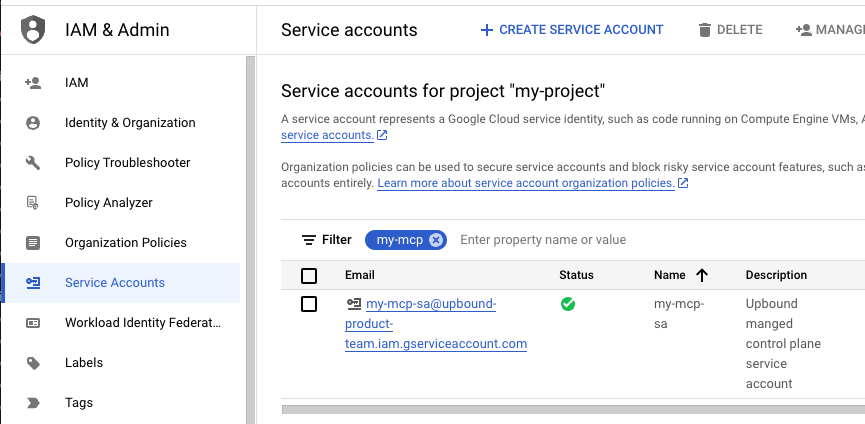
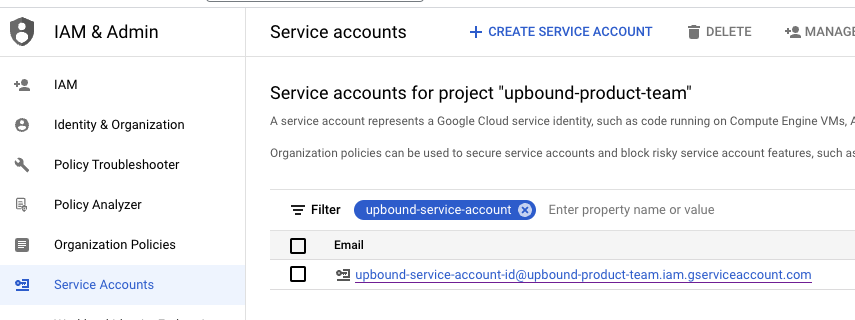
Vale fixes

diff --git a/content/quickstart/gcp-deploy.md b/content/quickstart/gcp-deploy.md
@@ -17,7 +17,9 @@ If you don't have an Upbound account, [sign up for a free trial](https://account
 
 ## Get started
 
-The first time you sign in to Upbound, you are through a `Get Started` experience designed to bootstrap your environment in the matter of minutes. Go to [Upbound](https://console.upbound.io) to start the experience.
+The first time you sign in to Upbound, you walk through a Getting Started experience designed to bootstrap your environment in the matter of minutes. 
+
+Go to [Upbound](https://console.upbound.io) to get started.
 
 ### Create an organization
 
@@ -78,6 +80,12 @@ While Upbound creates your control plane, connect Upbound to GCP.
 
 Upbound recommends using OpenID Connect (OIDC) to authenticate to GCP without exchanging any private information. 
 
+{{< hint "warning" >}}
+GCP doesn't authenticate a second OIDC pool in the same projected connecting to Upbound.
+
+Add a new [Service Account]({{<ref "#create-a-gcp-service-account" >}}) to the existing pool instead.
+{{< /hint >}}
+
 #### Create an identity pool
 1. Open the **[GCP IAM Admin console](https://console.cloud.google.com/iam-admin/iam)**.
 2. Select **[Workload Identity Federation](https://console.cloud.google.com/iam-admin/workload-identity-pools)**.
@@ -105,6 +113,10 @@ Select **Continue**.
 {{<img src="quickstart/images/gcp-provider-to-pool.png" alt="GCP add a provider to pool configuration" quality="100" align="center" >}}
 
 #### Configure provider attributes
+The provider attributes restrict which remote entities you allow access to your resources. 
+When Upbound authenticates to GCP it provides an OIDC subject (`sub`) in the form:
+
+`mcp:<account>/<mcp-name>:provider:<provider-name>`
 
 Configure the _google.subject_ attribute as **assertion.sub**
 
@@ -112,14 +124,18 @@ Under _Attribute Conditions_ select **Add Condition**.
 
 <!-- vale gitlab.Uppercase = NO -->
 <!-- ignore CEL -->
-In the _Conditional CEL_ input box put
+To authenticate any managed control plane in your organization, in the _Conditional CEL_ input box put
 <!-- vale gitlab.Uppercase = YES -->
 
 {{<editCode >}}
 ```console
-google.subject == "mcp:$@UPBOUND_ORG_NAME/CONTROL_PLANE_NAME$@:provider:provider-gcp"
+google.subject.contains("mcp:$@ORGANIZATION_NAME$@")
 ```
 {{< /editCode >}}
+
+{{< hint "warning" >}}
+Not providing a CEL condition allows any Upbound managed control plane to access your GCP account if they know the project ID and service account name.
+{{< /hint >}}
 
 Select **Save**.
 
@@ -156,12 +172,13 @@ For the _CloudSQL as a service_ configuration the service account requires the r
 Select **Done**.
 
 {{<img src="quickstart/images/gcp-role-add.png" alt="GCP service project access screen" quality="100" align="center">}}
-<!-- 
-#### Record the service account email address
 
-At the list of service accounts copy the service account **email**. Upbound requires this to authenticate your managed control plane.
+##### Record the service account email address
 
-{{<img src="quickstart/images/gcp-sa-email.png" alt="list of GCP service accounts" size="medium" quality="100" >}} -->
+At the list of service accounts copy the service account **email**.  
+Upbound requires this to authenticate your managed control plane.
+
+{{<img src="quickstart/images/gcp-sa-email.png" alt="list of GCP service accounts" size="medium" quality="100" >}} 
 
 ### Add the service account to the identity pool
 
@@ -173,6 +190,25 @@ Add the service account to the Workload Identity Federation pool to authenticate
 {{<img src="quickstart/images/gcp-add-to-pool.png" alt="Pool select service account screen" quality="100" align="center">}}
 Select **Save**.  
 In the _Configure your application_ window, select **Dismiss**.
+
+<!-- vale Microsoft.Terms = NO -->
+<!-- vale Google.Headings = NO -->
+<!-- allow "Cloud". It matches the label on the page --> 
+
+<!-- vale Microsoft.HeadingAcronyms = NO -->
+<!-- allow "SQL" -->
+### Enable the Cloud SQL Admin GCP API
+GCP requires explicitly enabling the Cloud SQL Admin API. 
+
+
+Go to the [Cloud SQL Admin API](https://console.cloud.google.com/apis/library/sqladmin.googleapis.com) page in the GCP console.
+
+
+Select **Enable**.
+
+{{<img src="quickstart/images/enable-cloud-sql-api.png" alt="Enable the Cloud SQL Admin API in the GCP console" size="medium" quality="100" >}}
+<!-- vale Google.Headings = YES -->
+<!-- vale Microsoft.Terms = YES -->
 
 ### Finish configuring the Upbound identity provider
 
@@ -187,9 +223,11 @@ projects/$@<GCP Project ID>$@/locations/global/workloadIdentityPools/upbound-oid
 ```
 {{< /editCode >}}
 
+<br />
 
-{{<hint "tip" >}}
-In the _Federated identity provider_ the value `proidc` is the pool and provider configured earlier.
+{{<hint "note" >}}
+The identity provider format is:
+`projects/<GCP_PROJECT_ID>/locations/global/workloadIdentityPools/<OIDC_POOL_NAME>/providers/<OIDC_POOL_PROVIDER_NAME>`
 {{< /hint >}}
 
 <br />
